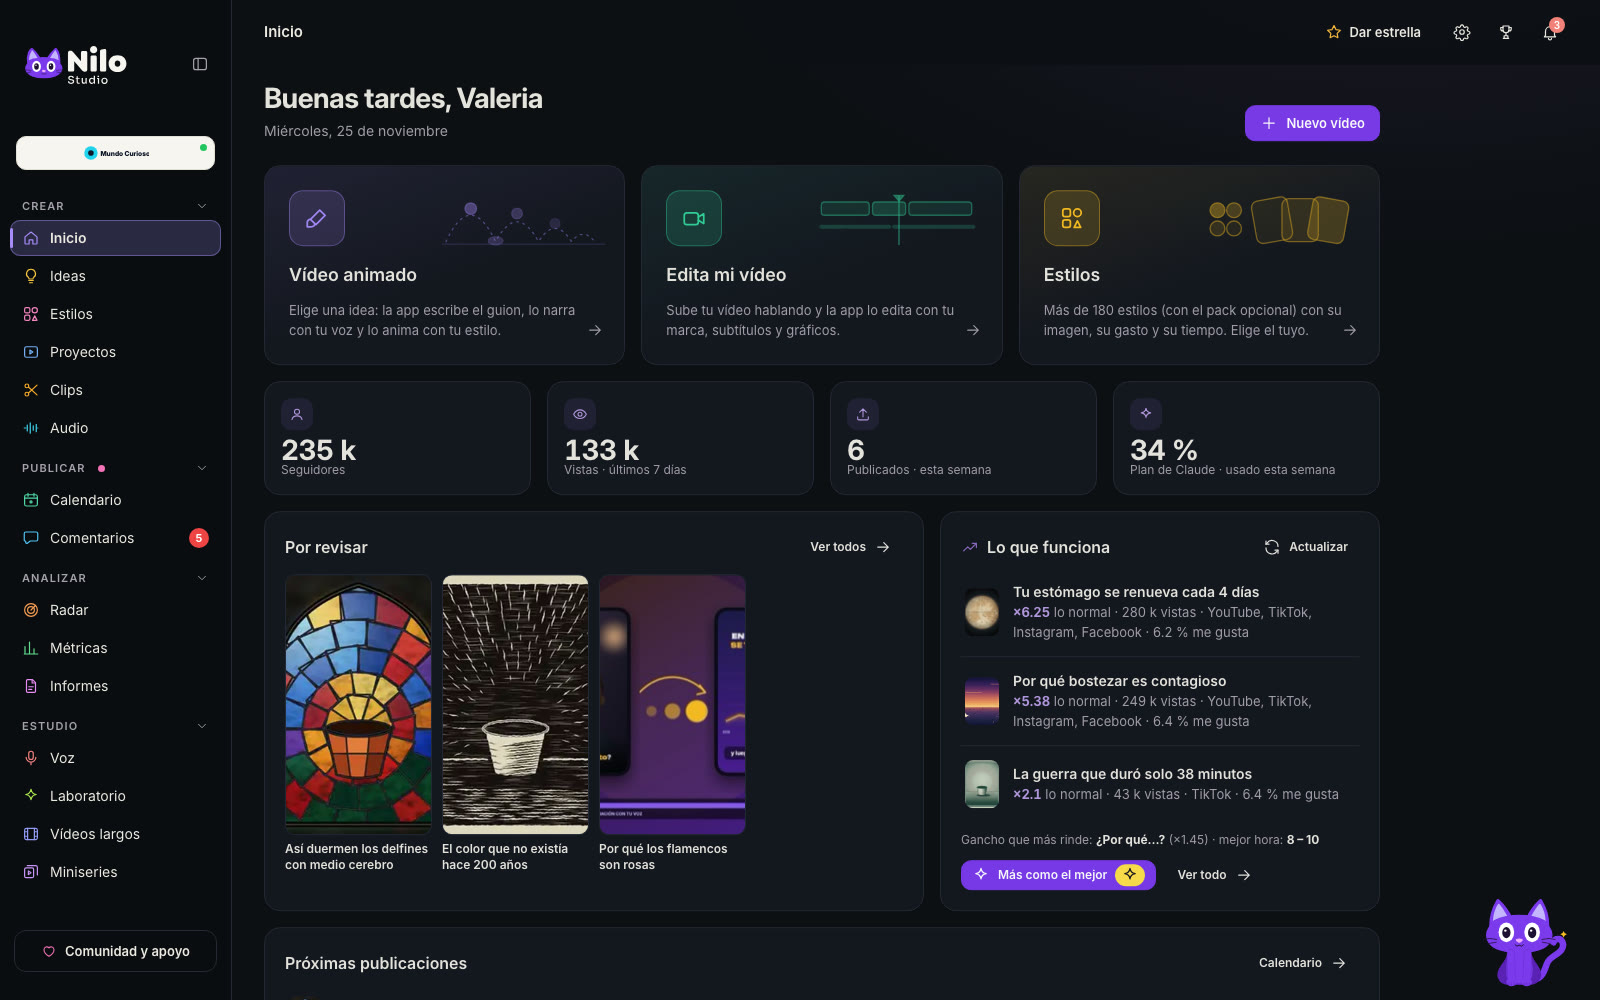
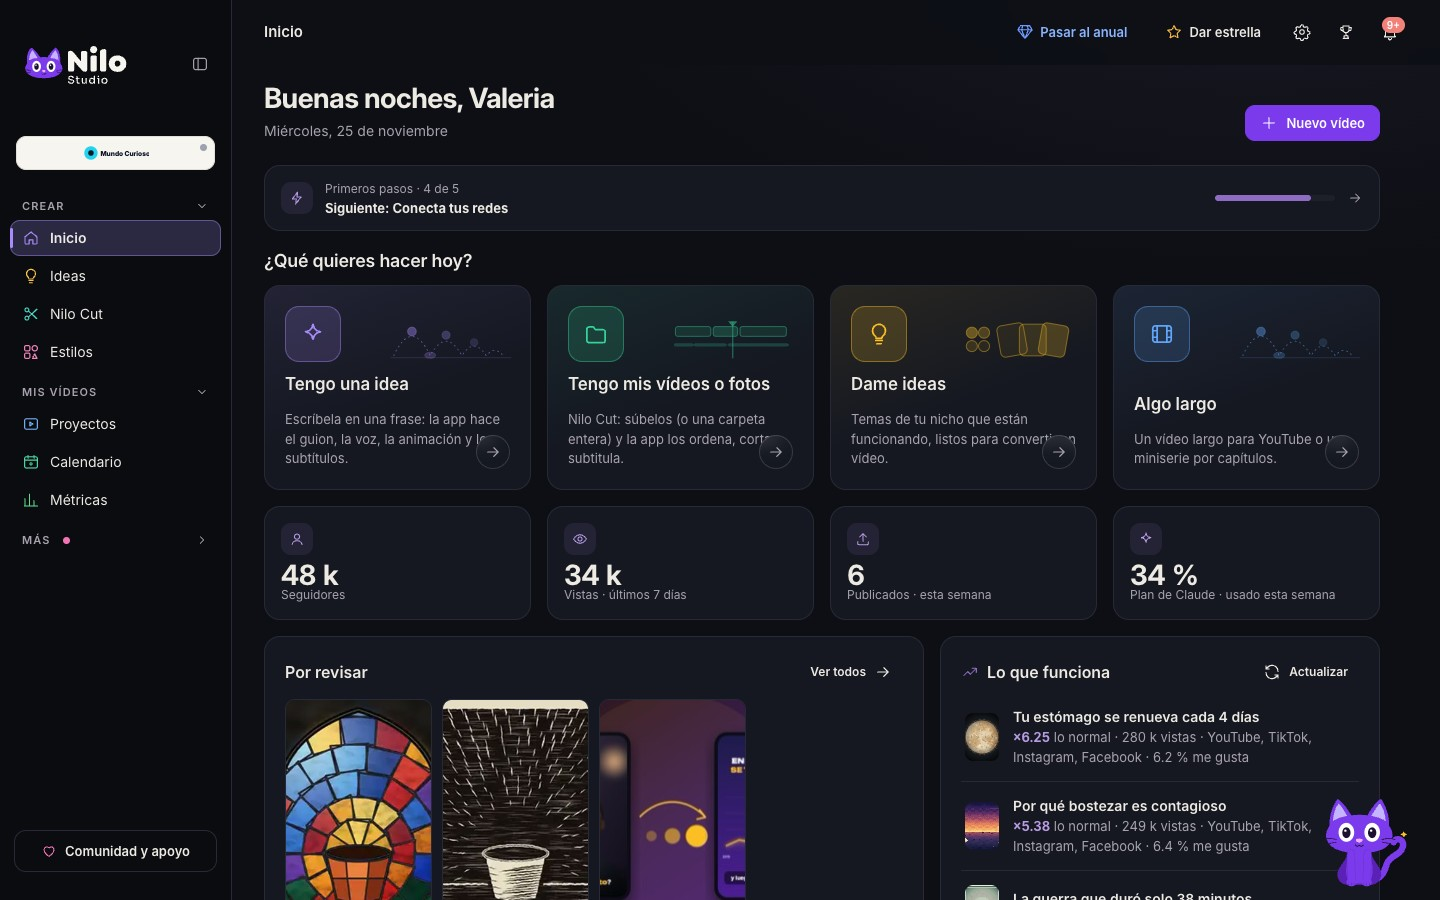
Lo nuevo: Nilo Cut, subtítulos personalizables, vídeos y música reales, largos y miniseries con teaser, SEO; capturas nuevas con datos de ejemplo; sin precio en la portada

diff --git a/README.md b/README.md
@@ -5,11 +5,11 @@
   <img src="assets/logo-claro.svg" alt="Nilo Studio" height="88">
 </picture>
 
-### Crea vídeos con IA para TikTok, Reels y Shorts en tu Mac. Sin editar nada.
+### Nilo Studio IA · Como CapCut, pero edita por ti. Vídeos con IA para TikTok, Reels y Shorts en tu Mac.
 **Una idea → un vídeo animado con tu voz → programado en TikTok, Instagram, YouTube y Facebook.**
 **Sin editar nada.**
 
-[![Nilo Studio Pro](https://img.shields.io/badge/Nilo_Studio_Pro-desde_USD_9%2C99%2Fmes-7C3AED?style=for-the-badge)](https://gumroad.com/l/nilostudio-pro)
+[![Obtén Nilo Studio](https://img.shields.io/badge/Obt%C3%A9n-Nilo_Studio-7C3AED?style=for-the-badge)](https://danerrq.github.io/)
 [![Estrellas](https://img.shields.io/github/stars/danerrq/nilo-studio?style=for-the-badge&color=F5B83D&label=%E2%98%85%20estrellas)](https://github.com/danerrq/nilo-studio/stargazers)
 [![Versión](https://img.shields.io/github/v/release/danerrq/nilo-studio?style=for-the-badge&color=22C55E&label=versi%C3%B3n)](https://github.com/danerrq/nilo-studio/releases)
 
@@ -24,6 +24,25 @@
 <img src="assets/inicio-oscuro.jpg" alt="Nilo Studio: pantalla de inicio" width="100%">
 
 </div>
+
+---
+
+## 🆕 Lo nuevo
+
+| | |
+|---|---|
+| ✂ **Nilo Cut** | Tu editor automático: subes tus vídeos, fotos y audios (o una carpeta), cuentas qué quieres lograr y la app los ordena, quita silencios y les pone subtítulos y transiciones. |
+| 💬 **Subtítulos a tu gusto** | 10 estilos animados (palabra clave, karaoke, marcador, bilingüe…) con tus colores, tu letra, tamaño y posición. |
+| 🎥 **Vídeos y música reales** | Tomas de apoyo de Pexels, Wikimedia y NASA, y música libre de derechos, con su crédito. |
+| 📺 **Vídeos largos y miniseries** | Para YouTube, por capítulos, con fotos reales o animación, y un teaser de cada capítulo. |
+| 🚀 **Hecho para viralizar** | Palabra clave, texto alternativo, temas y hashtags de cada red, y una revisión antes de publicar. |
+| 🔔 **Siempre conectada** | Te avisa al momento si una red se desconecta. |
+
+<img src="assets/nilocut-oscuro.jpg" alt="Nilo Cut: tu editor automático" width="100%">
+
+<img src="assets/subtitulos-oscuro.jpg" alt="Subtítulos animados y personalizables" width="100%">
+
+<img src="assets/largos-oscuro.jpg" alt="Vídeos largos con teaser de ejemplo" width="100%">
 
 ---
 
@@ -123,19 +142,13 @@ Pizarra, acuarela, papel recortado, 3D, pixel art, cómic, holograma, prensa ant
 
 ---
 
-## 💳 Precio
+## 🎟 Obtén Nilo Studio
 
 <div align="center">
 
-### Nilo Studio Pro
+Plan mensual o anual · licencia personal para **hasta 2 Mac tuyos** · actualizaciones incluidas · cancela cuando quieras.
 
-| **Pro mensual** | **Pro anual** · mejor valor |
-|:---:|:---:|
-| **USD 9,99** al mes | **USD 79** al año (más de 4 meses gratis) |
-
-Todo Nilo Studio · licencia personal para **hasta 2 Mac tuyos** · actualizaciones incluidas · cancela cuando quieras · **Garantía de 14 días**.
-
-**[→ Obtener Pro](https://gumroad.com/l/nilostudio-pro)** · Más información en **[la web](https://danerrq.github.io)**
+**[→ Obtén Nilo Studio en la web](https://danerrq.github.io/)**
 
 </div>
 
